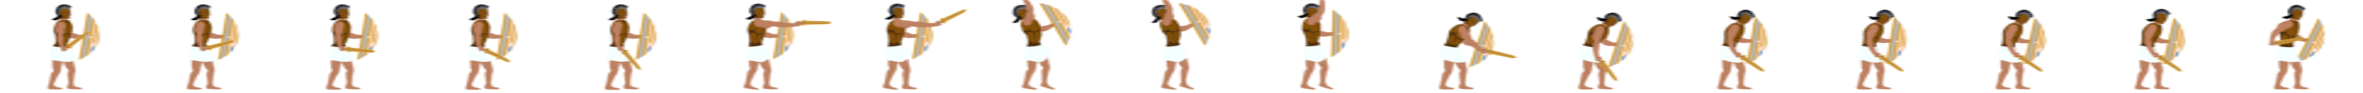
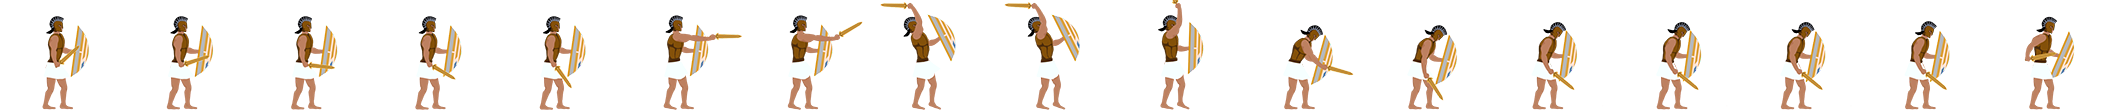
fixed blurry attack animation
fixed the recently added attack animation to be more clear

diff --git a/code/engine/player.js b/code/engine/player.js
@@ -100,7 +100,9 @@ function playerMovement() {
     } else if (playerSwingSword) {
         //Play attack animation. 
         player.anims.play('jasonAttackRight', true);
-        
+                player.setOffset(0, 45);
+
+
         
 
         /* If the player is facing a wall and close to it, the game will use the default hitbox size. 
@@ -120,15 +122,15 @@ function playerMovement() {
             (player.x + 50 > gameWidth) || (player.x - 11 < 0)) {
             //Smaller hitbox
             player.setSize(30, 64);
-            player.setOffset(0, 25);     
+            player.setOffset(0, 45);     
         } else if (playerFacingRight) {
             //Expand hitbox to right 
             player.setSize(30, 64);
-            player.setOffset(0, 25);
+            player.setOffset(0, 45);
         } else {
             //Expand hitbox to left
             player.setSize(30, 64);
-            player.setOffset(0, 25);
+            player.setOffset(0, 45);
         }
     } else {
         //Play walk animation. 
@@ -377,9 +379,13 @@ function playerBlocking(){
             blocking=true;
             if(playerFacingRight==true){
             player.anims.play('blockingAnim', true);
+                        player.setOffset(0, 45);
+
             }
             else if(playerFacingRight==false){
                 player.anims.play('blockingAnim', true);
+                        player.setOffset(0, 45);
+
 
             }
         }

diff --git a/code/base.js b/code/base.js
@@ -108,7 +108,7 @@ class controller extends Phaser.Scene {
         **/
 
         this.load.spritesheet('jasonAttack','assets/player/attackSwish2.png',
-           { frameWidth: 139, frameHeight: 93 });
+           { frameWidth: 124, frameHeight: 110 });
 
 
         this.load.spritesheet('kingSprite','assets/NPC/king.png',
